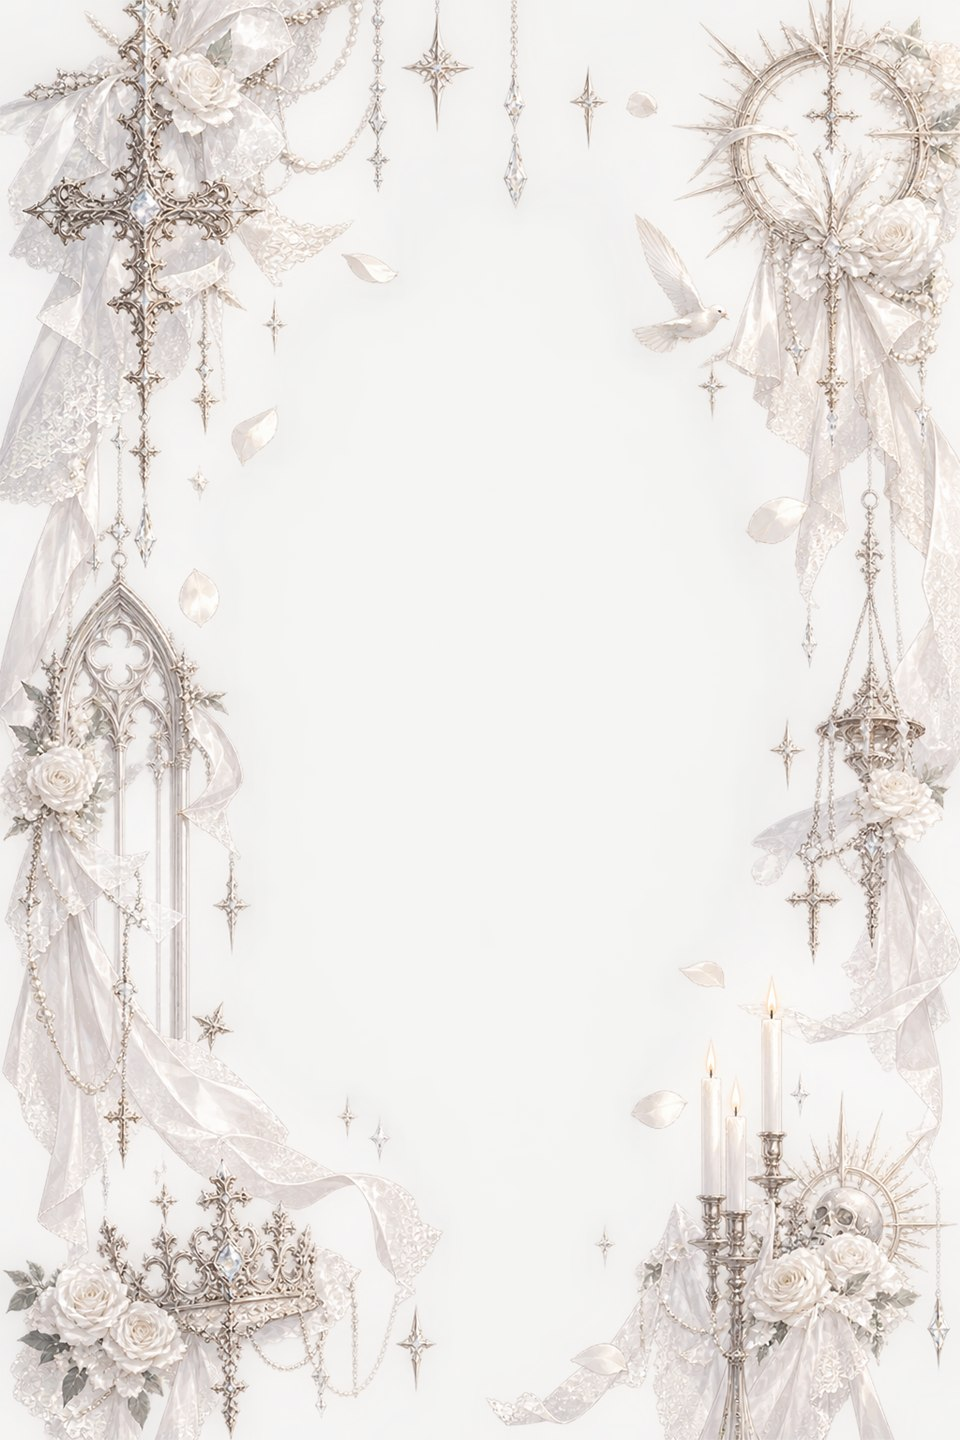
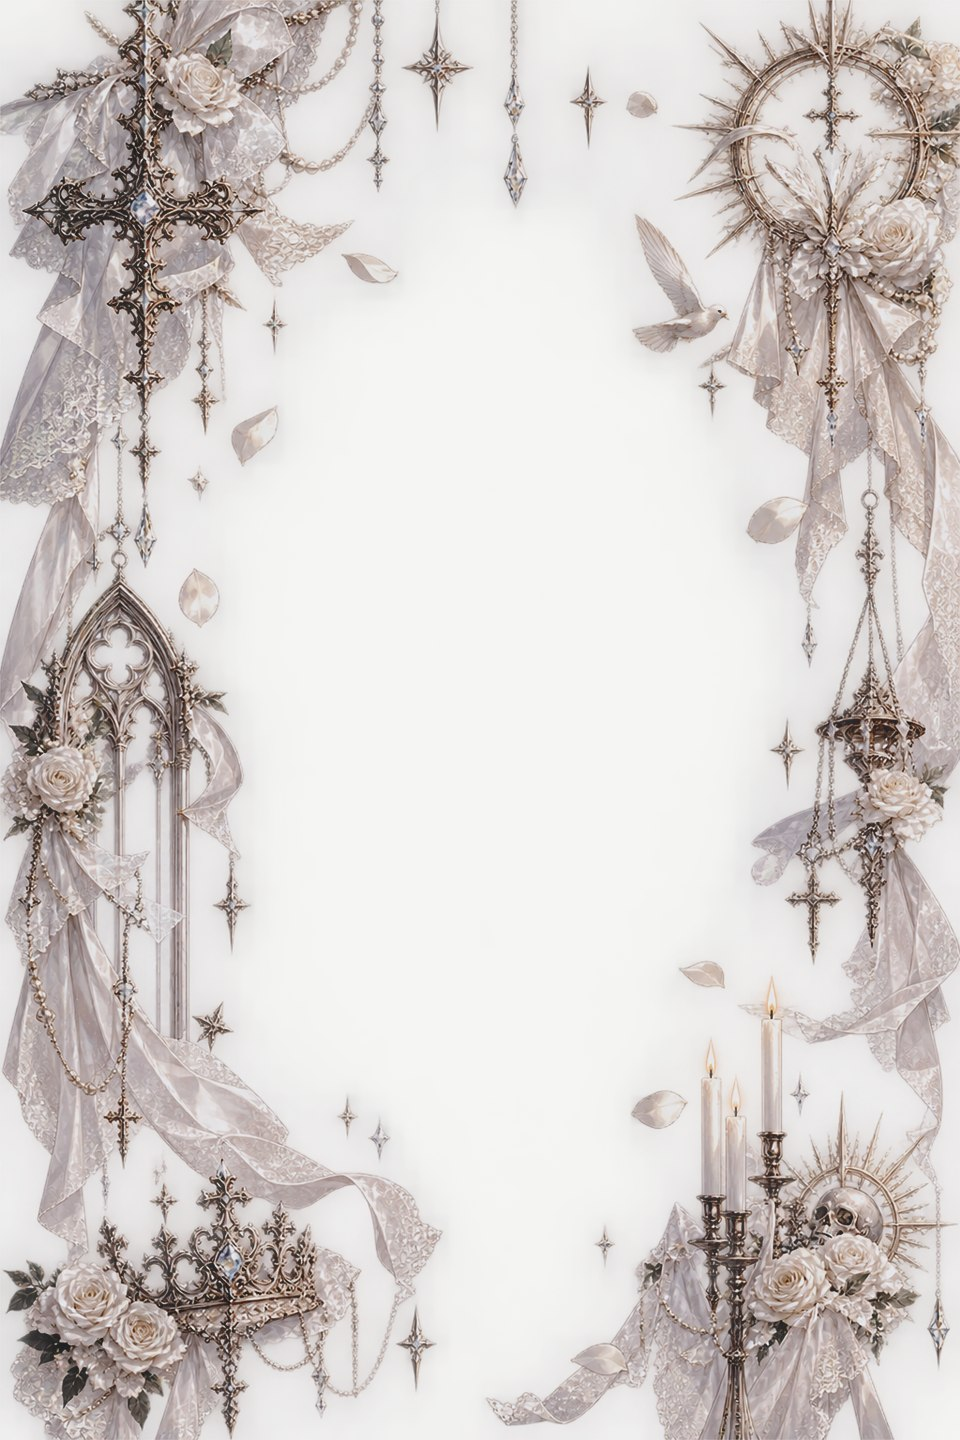
feat: 更新蓝瓷配色并增强圣职银灰背景层次

diff --git a/core/designsystem/src/test/kotlin/com/awakedw/core/designsystem/ThemePaletteTest.kt b/core/designsystem/src/test/kotlin/com/awakedw/core/designsystem/ThemePaletteTest.kt
@@ -13,31 +13,23 @@ import org.junit.Test
  */
 class ThemePaletteTest {
     @Test
-    fun `清晨天水碧系全部十六进制锚点`() {
-        // 背景渐变：#F1FBF7 → #E2F4EB → #D4F2E7（天水碧底锚）
-        assertEquals(0xFFF1FBF7, ThemePalette.QINGCHEN_BG_1)
-        assertEquals(0xFFE2F4EB, ThemePalette.QINGCHEN_BG_2)
-        assertEquals(0xFFD4F2E7, ThemePalette.QINGCHEN_BG_3)
-        // 主色（进度环/强调）：#2A9A6A 柏枝绿（指示值）
-        assertEquals(0xFF2A9A6A, ThemePalette.QINGCHEN_PRIMARY)
-        // 进度环轨道：#BFE7DC
-        assertEquals(0xFFBFE7DC, ThemePalette.QINGCHEN_RING_TRACK)
-        // 环心数值文字：#157A50
-        assertEquals(0xFF157A50, ThemePalette.QINGCHEN_RING_VALUE_TEXT)
-        // 问候语文字：#1A684D（副 #55907A）
-        assertEquals(0xFF1A684D, ThemePalette.QINGCHEN_GREETING)
-        assertEquals(0xFF55907A, ThemePalette.QINGCHEN_GREETING_SUB)
-        // 按钮（线性渐变）：#279061 → #43B988
-        assertEquals(0xFF279061, ThemePalette.QINGCHEN_BUTTON_TOP)
-        assertEquals(0xFF43B988, ThemePalette.QINGCHEN_BUTTON_BOTTOM)
-        // 徽章底/字：#D6ECF0（月白面锚）/ #16704A
-        assertEquals(0xFFD6ECF0, ThemePalette.QINGCHEN_CHIP_BG)
-        assertEquals(0xFF16704A, ThemePalette.QINGCHEN_CHIP_TEXT)
-        // 粒子色族：#2A9A6A #3FB389 #62C9A6 #79D4B5
-        assertEquals(0xFF2A9A6A, ThemePalette.QINGCHEN_PARTICLE_1)
-        assertEquals(0xFF3FB389, ThemePalette.QINGCHEN_PARTICLE_2)
-        assertEquals(0xFF62C9A6, ThemePalette.QINGCHEN_PARTICLE_3)
-        assertEquals(0xFF79D4B5, ThemePalette.QINGCHEN_PARTICLE_4)
+    fun `晨雾蓝瓷色板锚点`() {
+        assertEquals(0xFFF7FAFD, ThemePalette.QINGCHEN_BG_1)
+        assertEquals(0xFFE9F0F7, ThemePalette.QINGCHEN_BG_2)
+        assertEquals(0xFFD5E4F0, ThemePalette.QINGCHEN_BG_3)
+        assertEquals(0xFF486B86, ThemePalette.QINGCHEN_PRIMARY)
+        assertEquals(0xFFBDCFDF, ThemePalette.QINGCHEN_RING_TRACK)
+        assertEquals(0xFF304D65, ThemePalette.QINGCHEN_RING_VALUE_TEXT)
+        assertEquals(0xFF304D65, ThemePalette.QINGCHEN_GREETING)
+        assertEquals(0xFF4D6275, ThemePalette.QINGCHEN_GREETING_SUB)
+        assertEquals(0xFF3D5F79, ThemePalette.QINGCHEN_BUTTON_TOP)
+        assertEquals(0xFF526F88, ThemePalette.QINGCHEN_BUTTON_BOTTOM)
+        assertEquals(0xFFF0F5FA, ThemePalette.QINGCHEN_CHIP_BG)
+        assertEquals(0xFF304D65, ThemePalette.QINGCHEN_CHIP_TEXT)
+        assertEquals(0xFF759AB8, ThemePalette.QINGCHEN_PARTICLE_1)
+        assertEquals(0xFF9BB7CF, ThemePalette.QINGCHEN_PARTICLE_2)
+        assertEquals(0xFFBCCFDE, ThemePalette.QINGCHEN_PARTICLE_3)
+        assertEquals(0xFFD1E0EA, ThemePalette.QINGCHEN_PARTICLE_4)
     }
 
     @Test
@@ -134,7 +126,7 @@ class ThemePaletteTest {
         // 深夜蕾丝提亮锚（P2-5）：#525C72 = 月白·灰按 35% 预混鸦青暗底的等效暗银，
         // 旧锚 #343A4C 对徽章底仅 1.3:1 不可见，提亮后 ≥1.8（对比度断言见 OnPrimarySurfaceTest）。
         assertEquals(0xFFFADCE2, ThemePalette.WUHOU_LACE)
-        assertEquals(0xFFD2EDE7, ThemePalette.QINGCHEN_LACE)
+        assertEquals(0xFFABC3D7, ThemePalette.QINGCHEN_LACE)
         assertEquals(0xFFDECAC0, ThemePalette.HUANGHUN_LACE)
         assertEquals(0xFF525C72, ThemePalette.SHENYE_LACE)
         assertEquals(0xFFE2D3EF, ThemePalette.LAVENDER_LACE)

diff --git a/core/designsystem/src/main/kotlin/com/awakedw/core/designsystem/ThemePalette.kt b/core/designsystem/src/main/kotlin/com/awakedw/core/designsystem/ThemePalette.kt
@@ -13,40 +13,24 @@ package com.awakedw.core.designsystem
  */
 object ThemePalette {
     // ------------------------------------------------------------------
-    // A · 清晨 · 天水碧系（ThemeId.EMERALD，默认/白天）
-    // ------------------------------------------------------------------
-
-    /** 背景渐变：#F1FBF7 → #E2F4EB → #D4F2E7（天水碧底锚） */
-    const val QINGCHEN_BG_1 = 0xFFF1FBF7 // 天水碧·纸白
-    const val QINGCHEN_BG_2 = 0xFFE2F4EB // 天水碧·浅
-    const val QINGCHEN_BG_3 = 0xFFD4F2E7 // 天水碧（底锚）
-
-    /** 主色（进度环/强调）：#2A9A6A 柏枝绿（指示值，未经站值校准） */
-    const val QINGCHEN_PRIMARY = 0xFF2A9A6A // 柏枝绿
-
-    /** 进度环轨道：#BFE7DC */
-    const val QINGCHEN_RING_TRACK = 0xFFBFE7DC // 天水碧·深
-
-    /** 环心数值文字：#157A50 */
-    const val QINGCHEN_RING_VALUE_TEXT = 0xFF157A50 // 柏枝绿·深
-
-    /** 问候语文字：#1A684D（副 #55907A） */
-    const val QINGCHEN_GREETING = 0xFF1A684D // 官绿·深
-    const val QINGCHEN_GREETING_SUB = 0xFF55907A // 铜绿·灰
-
-    /** 按钮（线性渐变）：#279061 → #43B988 */
-    const val QINGCHEN_BUTTON_TOP = 0xFF279061 // 柏枝绿·深
-    const val QINGCHEN_BUTTON_BOTTOM = 0xFF43B988 // 柏枝绿·亮
-
-    /** 徽章底/字：#D6ECF0（月白面锚）/ #16704A */
-    const val QINGCHEN_CHIP_BG = 0xFFD6ECF0 // 月白（面锚）
-    const val QINGCHEN_CHIP_TEXT = 0xFF16704A // 官绿
-
-    /** 粒子色族：#2A9A6A #3FB389 #62C9A6 #79D4B5 */
-    const val QINGCHEN_PARTICLE_1 = 0xFF2A9A6A // 柏枝绿
-    const val QINGCHEN_PARTICLE_2 = 0xFF3FB389 // 松花绿·亮
-    const val QINGCHEN_PARTICLE_3 = 0xFF62C9A6 // 天水碧·饱和
-    const val QINGCHEN_PARTICLE_4 = 0xFF79D4B5 // 天水碧·亮
+    // A · 晨雾蓝瓷（保留 ThemeId.EMERALD 键以兼容用户设置）
+    // 瓷白与雾蓝背景，深蓝灰强调；不再使用薄荷绿色。
+    const val QINGCHEN_BG_1 = 0xFFF7FAFD
+    const val QINGCHEN_BG_2 = 0xFFE9F0F7
+    const val QINGCHEN_BG_3 = 0xFFD5E4F0
+    const val QINGCHEN_PRIMARY = 0xFF486B86
+    const val QINGCHEN_RING_TRACK = 0xFFBDCFDF
+    const val QINGCHEN_RING_VALUE_TEXT = 0xFF304D65
+    const val QINGCHEN_GREETING = 0xFF304D65
+    const val QINGCHEN_GREETING_SUB = 0xFF4D6275
+    const val QINGCHEN_BUTTON_TOP = 0xFF3D5F79
+    const val QINGCHEN_BUTTON_BOTTOM = 0xFF526F88
+    const val QINGCHEN_CHIP_BG = 0xFFF0F5FA
+    const val QINGCHEN_CHIP_TEXT = 0xFF304D65
+    const val QINGCHEN_PARTICLE_1 = 0xFF759AB8
+    const val QINGCHEN_PARTICLE_2 = 0xFF9BB7CF
+    const val QINGCHEN_PARTICLE_3 = 0xFFBCCFDE
+    const val QINGCHEN_PARTICLE_4 = 0xFFD1E0EA
 
     // ------------------------------------------------------------------
     // B · 午后 · 藕荷系（ThemeId.STRAWBERRY，早晨）
@@ -227,7 +211,7 @@ object ThemePalette {
     const val WUHOU_LACE = 0xFFFADCE2 // 樱花·浅
 
     /** 蕾丝线：清晨（月白薄荷）#D2EDE7 */
-    const val QINGCHEN_LACE = 0xFFD2EDE7 // 月白·薄荷
+    const val QINGCHEN_LACE = 0xFFABC3D7 // 蓝瓷·细线
 
     /** 蕾丝线：黄昏（奶茶棕褐·米杏）#DECAC0 */
     const val HUANGHUN_LACE = 0xFFDECAC0 // 奶茶棕褐·米杏

diff --git a/core/designsystem/src/main/kotlin/com/awakedw/core/designsystem/components/EditorialHeader.kt b/core/designsystem/src/main/kotlin/com/awakedw/core/designsystem/components/EditorialHeader.kt
@@ -1,0 +1,48 @@
+package com.awakedw.core.designsystem.components
+
+import androidx.compose.foundation.background
+import androidx.compose.foundation.layout.Arrangement
+import androidx.compose.foundation.layout.Box
+import androidx.compose.foundation.layout.Column
+import androidx.compose.foundation.layout.Row
+import androidx.compose.foundation.layout.fillMaxWidth
+import androidx.compose.foundation.layout.padding
+import androidx.compose.foundation.layout.size
+import androidx.compose.foundation.shape.RoundedCornerShape
+import androidx.compose.material3.Icon
+import androidx.compose.material3.MaterialTheme
+import androidx.compose.material3.Text
+import androidx.compose.runtime.Composable
+import androidx.compose.ui.Alignment
+import androidx.compose.ui.Modifier
+import androidx.compose.ui.graphics.vector.ImageVector
+import androidx.compose.ui.unit.dp
+import com.awakedw.core.designsystem.currentThemeSpec
+
+/** A common, compact header for the utility pages; art remains in the margins. */
+@Suppress("ktlint:standard:function-naming")
+@Composable
+fun EditorialHeader(
+    title: String,
+    subtitle: String,
+    icon: ImageVector,
+    modifier: Modifier = Modifier,
+) {
+    val spec = currentThemeSpec()
+    Row(
+        modifier.fillMaxWidth().padding(vertical = 6.dp),
+        verticalAlignment = Alignment.CenterVertically,
+        horizontalArrangement = Arrangement.spacedBy(14.dp),
+    ) {
+        Box(
+            Modifier.size(46.dp).background(spec.chipBg.copy(alpha = 0.96f), RoundedCornerShape(16.dp)),
+            contentAlignment = Alignment.Center,
+        ) {
+            Icon(icon, contentDescription = null, tint = spec.greetingColor, modifier = Modifier.size(22.dp))
+        }
+        Column(Modifier.weight(1f), verticalArrangement = Arrangement.spacedBy(4.dp)) {
+            Text(title, color = spec.greetingColor, style = MaterialTheme.typography.headlineSmall)
+            Text(subtitle, color = spec.greetingSubColor, style = MaterialTheme.typography.bodySmall)
+        }
+    }
+}

diff --git a/core/designsystem/src/test/kotlin/com/awakedw/core/designsystem/OnPrimarySurfaceTest.kt b/core/designsystem/src/test/kotlin/com/awakedw/core/designsystem/OnPrimarySurfaceTest.kt
@@ -52,7 +52,7 @@ class OnPrimarySurfaceTest {
     @Test
     fun `焦糖棕褐主题使用白字其余浅色主题使用深暖褐`() {
         assertEquals(Color.White, onPrimarySurface(CaramelThemeSpec))
-        listOf(EmeraldThemeSpec, StrawberryThemeSpec, LavenderThemeSpec).forEach { spec ->
+        listOf(StrawberryThemeSpec, LavenderThemeSpec).forEach { spec ->
             assertEquals(Color(ThemePalette.ON_PRIMARY_SURFACE), onPrimarySurface(spec))
         }
     }
@@ -68,20 +68,15 @@ class OnPrimarySurfaceTest {
     // ---------- P2-4：按钮前景色对各主题主色与渐变两端保持清晰 ----------
 
     @Test
-    fun `深暖褐对清晨主题按钮渐变两端与primary对比度均不低于3`() {
-        val text = ThemePalette.ON_PRIMARY_SURFACE
-        assertTrue(
-            "buttonTop #279061 实际 " + contrast(text, ThemePalette.QINGCHEN_BUTTON_TOP),
-            contrast(text, ThemePalette.QINGCHEN_BUTTON_TOP) >= 3f,
-        )
-        assertTrue(
-            "buttonBottom #43B988 实际 " + contrast(text, ThemePalette.QINGCHEN_BUTTON_BOTTOM),
-            contrast(text, ThemePalette.QINGCHEN_BUTTON_BOTTOM) >= 3f,
-        )
-        assertTrue(
-            "primary #2A9A6A 实际 " + contrast(text, ThemePalette.QINGCHEN_PRIMARY),
-            contrast(text, ThemePalette.QINGCHEN_PRIMARY) >= 3f,
-        )
+    fun `蓝瓷白字按钮和深蓝正文对比度至少四点五`() {
+        assertEquals(Color.White, onPrimarySurface(EmeraldThemeSpec))
+        listOf(ThemePalette.QINGCHEN_PRIMARY, ThemePalette.QINGCHEN_BUTTON_TOP, ThemePalette.QINGCHEN_BUTTON_BOTTOM).forEach {
+            assertTrue(contrast(0xFFFFFFFF, it) >= 4.5f)
+        }
+        listOf(ThemePalette.QINGCHEN_BG_1, ThemePalette.QINGCHEN_BG_2, ThemePalette.QINGCHEN_BG_3).forEach {
+            assertTrue(contrast(ThemePalette.QINGCHEN_GREETING, it) >= 4.5f)
+            assertTrue(contrast(ThemePalette.QINGCHEN_GREETING_SUB, it) >= 4.5f)
+        }
     }
 
     @Test

diff --git a/core/designsystem/src/main/kotlin/com/awakedw/core/designsystem/lolita/ThemeArtwork.kt b/core/designsystem/src/main/kotlin/com/awakedw/core/designsystem/lolita/ThemeArtwork.kt
@@ -8,19 +8,29 @@ data class ThemeArtwork(
     val opacity: Float,
     val treatment: ArtworkTreatment = ArtworkTreatment.PRINTED_INK,
     val framed: Boolean = false,
+    val centerWash: Float = if (framed) 0.30f else 0.14f,
+    val readingVeil: Float = 0.70f,
 )
 
 enum class ArtworkTreatment { PRINTED_INK, INVERTED_INK, PAINTED }
 
 fun themeArtworkOf(id: ThemeId): ThemeArtwork =
     when (id) {
-        ThemeId.EMERALD -> ThemeArtwork("lolita/green.jpg", 0.18f)
+        ThemeId.EMERALD -> ThemeArtwork("lolita/blue.jpg", 0.24f)
         ThemeId.STRAWBERRY -> ThemeArtwork("lolita/rose.jpg", 0.18f)
         ThemeId.CARAMEL -> ThemeArtwork("lolita/warm.jpg", 0.18f)
         ThemeId.NIGHT -> ThemeArtwork("lolita/gothic.jpg", 0.20f, ArtworkTreatment.INVERTED_INK)
         ThemeId.LAVENDER -> ThemeArtwork("lolita/blue.jpg", 0.18f)
         ThemeId.GOTHIC -> ThemeArtwork("lolita/gothic_frame.jpg", 0.80f, ArtworkTreatment.PAINTED, framed = true)
-        ThemeId.CLERIC -> ThemeArtwork("lolita/cleric.jpg", 0.70f, framed = true)
+        ThemeId.CLERIC ->
+            ThemeArtwork(
+                "lolita/cleric.jpg",
+                0.96f,
+                ArtworkTreatment.PAINTED,
+                framed = true,
+                centerWash = 0.10f,
+                readingVeil = 0.48f,
+            )
         ThemeId.THIN_MINT -> ThemeArtwork("lolita/thin_mint.jpg", 0.60f, framed = true)
     }
 

diff --git a/core/designsystem/src/main/kotlin/com/awakedw/core/designsystem/lolita/LolitaBackdrop.kt b/core/designsystem/src/main/kotlin/com/awakedw/core/designsystem/lolita/LolitaBackdrop.kt
@@ -69,7 +69,7 @@ fun LolitaBackdrop(
                                 colors =
                                     listOf(
                                         spec.backgroundGradient.first().copy(
-                                            alpha = if (art.framed) 0.30f else 0.14f,
+                                            alpha = art.centerWash,
                                         ),
                                         Color.Transparent,
                                     ),
@@ -82,8 +82,8 @@ fun LolitaBackdrop(
                             Brush.horizontalGradient(
                                 0f to paper.copy(alpha = 0f),
                                 0.18f to paper.copy(alpha = 0.08f),
-                                0.34f to paper.copy(alpha = 0.70f),
-                                0.66f to paper.copy(alpha = 0.70f),
+                                0.34f to paper.copy(alpha = art.readingVeil),
+                                0.66f to paper.copy(alpha = art.readingVeil),
                                 0.82f to paper.copy(alpha = 0.08f),
                                 1f to paper.copy(alpha = 0f),
                             )

diff --git a/core/designsystem/src/main/kotlin/com/awakedw/core/designsystem/OnPrimarySurface.kt b/core/designsystem/src/main/kotlin/com/awakedw/core/designsystem/OnPrimarySurface.kt
@@ -7,7 +7,7 @@ import com.awakedw.core.model.ThemeId
  * 主色底（按钮渐变 / 选中 chip / 步进钮）上的字色助手（P2-4 对比度修复）。
  *
  * - 深夜墨青（isDark）：按钮色板（#5C8FA0→#86B7C4）按白字校准，维持 [Color.White]；
- * - 焦糖奶茶改为棕褐色深按钮，使用白字保持清晰且避免黄色大色块；
+ * - 晨雾蓝瓷、焦糖奶茶、薄巧和圣职使用深按钮配白字；
  * - 其余浅色主题：原用白字压浅暖主色仅 1.8–2.5:1，统一改深暖褐
  *   [ThemePalette.ON_PRIMARY_SURFACE]（#3E322B），对各自主色渐变两端与 primary
  *   均 ≥3:1——逐项对比度计算由 OnPrimarySurfaceTest 用 WCAG 公式断言防漂移。
@@ -16,6 +16,7 @@ import com.awakedw.core.model.ThemeId
  */
 fun onPrimarySurface(spec: ThemeSpec): Color =
     when {
+        spec.id == ThemeId.EMERALD -> Color.White
         spec.id == ThemeId.GOTHIC -> Color(ThemePalette.GOTHIC_ON_PRIMARY)
         spec.id == ThemeId.CLERIC || spec.id == ThemeId.THIN_MINT -> Color.White
         spec.isDark || spec.id == ThemeId.CARAMEL -> Color.White

diff --git a/core/designsystem/src/test/kotlin/com/awakedw/core/designsystem/lolita/ThemeArtworkTest.kt b/core/designsystem/src/test/kotlin/com/awakedw/core/designsystem/lolita/ThemeArtworkTest.kt
@@ -30,7 +30,7 @@ class ThemeArtworkTest {
             listOf(ThemeId.THIN_MINT, ThemeId.GOTHIC, ThemeId.CLERIC).forEach { id ->
                 val art = themeArtworkOf(id)
                 assertTrue(art.framed)
-                assertTrue(art.opacity in 0.5f..0.85f)
+                assertTrue(art.opacity in 0.5f..1f)
                 assertTrue(context.assets.open(art.asset).use { it.readBytes().size } < 350_000)
                 val bitmap = loadAssetBitmap(context, art.asset)
                 assertNotNull(bitmap)
@@ -41,7 +41,7 @@ class ThemeArtworkTest {
     @Test
     fun `gothic painted assets are never inverted and cleric is no longer a fallback`() {
         assertEquals(ArtworkTreatment.PAINTED, themeArtworkOf(ThemeId.GOTHIC).treatment)
-        assertEquals(ArtworkTreatment.PRINTED_INK, themeArtworkOf(ThemeId.CLERIC).treatment)
+        assertEquals(ArtworkTreatment.PAINTED, themeArtworkOf(ThemeId.CLERIC).treatment)
         assertEquals("lolita/cleric.jpg", themeArtworkOf(ThemeId.CLERIC).asset)
     }
 }

diff --git a/core/designsystem/src/test/kotlin/com/awakedw/core/designsystem/lolita/LolitaBackdropTest.kt b/core/designsystem/src/test/kotlin/com/awakedw/core/designsystem/lolita/LolitaBackdropTest.kt
@@ -8,7 +8,7 @@ import org.junit.Test
 class LolitaBackdropTest {
     @Test
     fun `所有主题都有对应的氛围素材`() {
-        assertEquals("lolita/green.jpg", lolitaAssetFileOf(ThemeId.EMERALD))
+        assertEquals("lolita/blue.jpg", lolitaAssetFileOf(ThemeId.EMERALD))
         assertEquals("lolita/rose.jpg", lolitaAssetFileOf(ThemeId.STRAWBERRY))
         assertEquals("lolita/warm.jpg", lolitaAssetFileOf(ThemeId.CARAMEL))
         assertEquals("lolita/gothic.jpg", lolitaAssetFileOf(ThemeId.NIGHT))

diff --git a/core/designsystem/src/main/kotlin/com/awakedw/core/designsystem/OrnamentColor.kt b/core/designsystem/src/main/kotlin/com/awakedw/core/designsystem/OrnamentColor.kt
@@ -6,7 +6,7 @@ import com.awakedw.core.model.ThemeId
 /** Silver for monochrome, cocoa for mint chocolate; existing themes retain champagne detail. */
 fun ornamentColor(spec: ThemeSpec): Color =
     when (spec.id) {
-        ThemeId.GOTHIC, ThemeId.CLERIC -> spec.laceColor
+        ThemeId.EMERALD, ThemeId.GOTHIC, ThemeId.CLERIC -> spec.laceColor
         ThemeId.THIN_MINT -> spec.buttonBottom
         else -> Color(ThemePalette.GOLD_TRIM)
     }

diff --git a/core/designsystem/src/main/kotlin/com/awakedw/core/designsystem/Themes.kt b/core/designsystem/src/main/kotlin/com/awakedw/core/designsystem/Themes.kt
@@ -3,7 +3,7 @@ package com.awakedw.core.designsystem
 import androidx.compose.ui.graphics.Color
 import com.awakedw.core.model.ThemeId
 
-/** A · 清晨天水碧系（ThemeId.EMERALD，默认/白天），色值对照 moodboard §4。 */
+/** A · 晨雾蓝瓷（保留 EMERALD 兼容键）：瓷白底与深蓝灰强调。 */
 val EmeraldThemeSpec: ThemeSpec =
     ThemeSpec(
         id = ThemeId.EMERALD,
